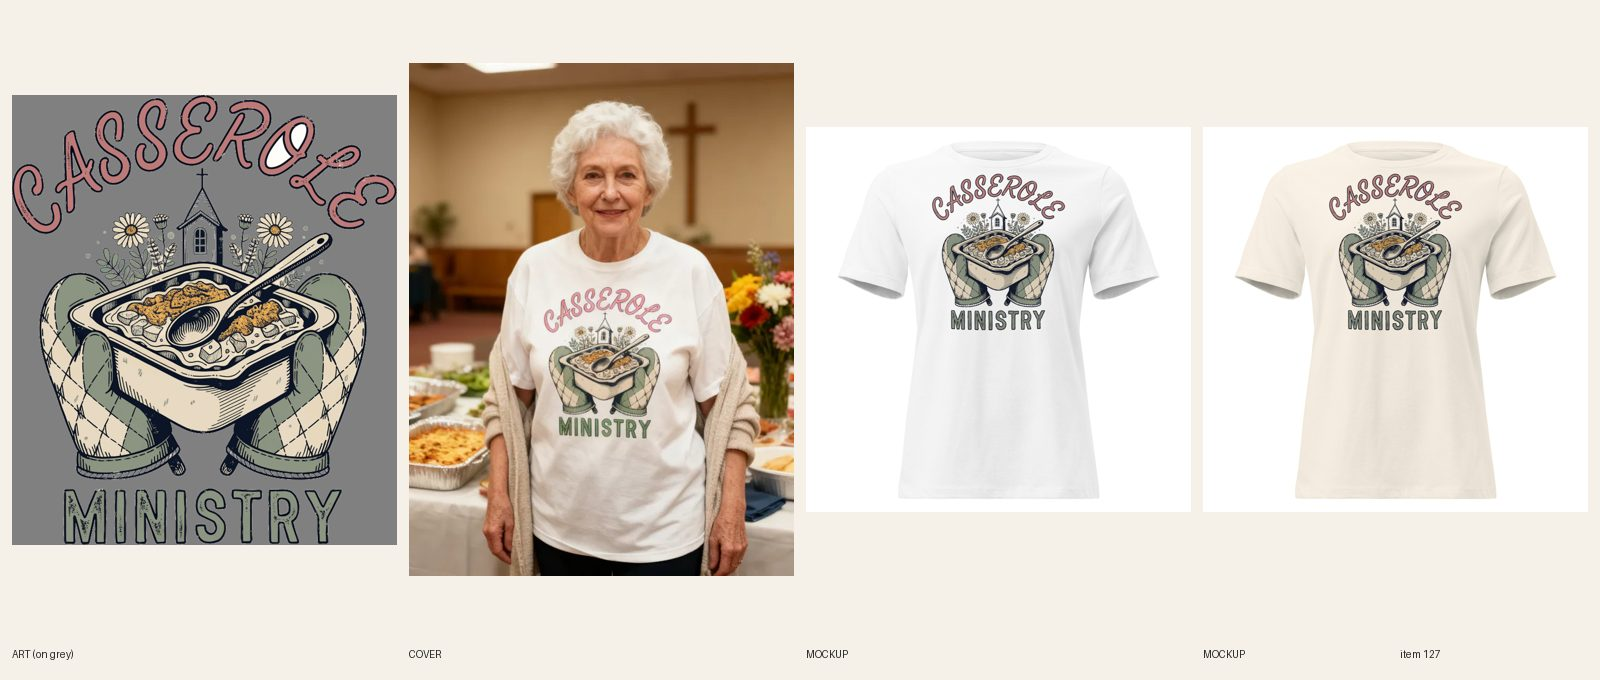
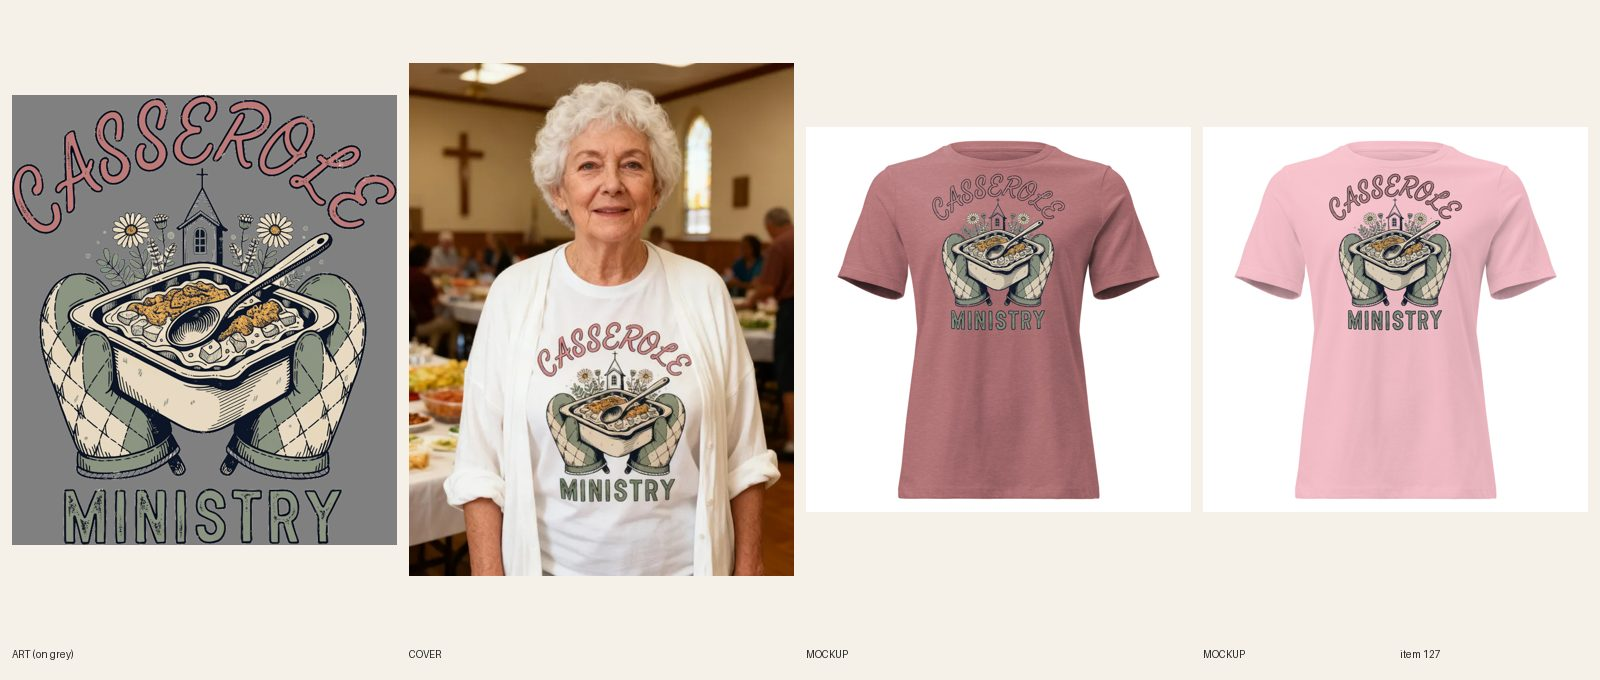
[B] review 127 (REDO done)

Changed region(s): [[0.25, 0.0926, 0.7188, 0.8647], [0.75, 0.1853, 0.9688, 0.7412], [0.1562, 0.1853, 0.1875, 0.2471]]

diff --git a/docs/intake-log.md b/docs/intake-log.md
@@ -1,4 +1,5 @@
 RUNNING lane B since 2026-10-16 10:30 UTC
+2026-10-16 11:06 UTC — [B] REDO #127 Casserole Ministry fixed: O counters knocked out to transparent, quilted-mitts copy, new cover; 54 variants re-synced, status REVIEW (docs/review/127.jpg).
 2026-10-16 10:46 UTC — [B] Women's Nurse – Don't Say the Q Word Tee (womens-nurse-dont-say-the-q-word-graphic-tee, Shopify 15356877275440): brief #132, DRAFT → REVIEW. $24.99 / compare-at $29.99 ×54 (9 colors, S–3XL), tags nurse-shirts, graphic-tees-for-women, vintage-graphic-tees. Primary er nurse shirt 720/KD53. Printful synced 54/54 (file 1087368565). Media: flat/ghost fronts regenerated from the final print file + 1 back, variant images linked. Cover registry done. Audit needs Storefront token: cohesion checked by hand. Review sheet docs/review/132.jpg.
 2026-10-16 10:25 UTC — [D] Queue: new READY #159–162 (lane A: Sleigh Queen tee + crewneck, boutique plaid; Technically a Sweater tee + crewneck) and #163–168 (lane B: men's redo Beach Body Pending, Peaked in 1898, Conflict Resolution; new Professional Line Untangler, Rest Day Enthusiast, Knot Today). Registry #229–238 reserved. Men's redo list complete. READY now: lane A 13, lane B 13 (+ REDO A 1, B 2). Lock released.
 2026-10-16 10:17 UTC — [D] Late review: #143 Highland Cow Christmas crewneck LIVE (audit PASS --admin-json). #130 Espresso Yourself → REDO (white O counters, print 7.3in → 8.5in).

diff --git a/docs/pipeline/127-christian-casserole-ministry.md b/docs/pipeline/127-christian-casserole-ministry.md
@@ -1,4 +1,4 @@
-status: BUILDING [B] 2026-10-16T10:46Z
+status: REVIEW
 lane: B
 type: new
 id: 127
@@ -22,3 +22,4 @@ handle: womens-christian-casserole-ministry-graphic-tee
   2. R6.7: after the file fix, check the cover print still matches (the cover shows the same white O). If it does, flatten the fixed art onto white and regenerate the cover once (registry #197 may be reused for the same product).
   3. R8 copy: the mitts are argyle/diamond quilted, not floral: change "quilted floral oven mitts" (description) and "floral oven mitts" (meta) to "quilted oven mitts". Also drop "No badge or frame," from paragraph two (R8.3 builder jargon, see rulebook).
 - 2026-10-16 10:44 UTC [B]: REDO notes 1–3 done: print file fixed (both white counter patches of the O in CASSEROLE knocked out to transparent, art otherwise untouched), new Printful file 1087506568, 54 variants re-syncing to it, mockups regenerated + Shopify media replaced in place, cover regenerated once from the fixed art flattened on white (registry #197 reused), copy fixed (quilted oven mitts in description + meta, dropped 'No badge or frame,', print size line corrected to 9 x 10.5 in). Status → REVIEW once the re-sync finishes.
+- 2026-10-16 11:06 UTC [B]: REDO complete, all 54 variants re-synced to file 1087506568; review sheet docs/review/127.jpg regenerated (Heather Mauve + Pink mockups to check the counter).
